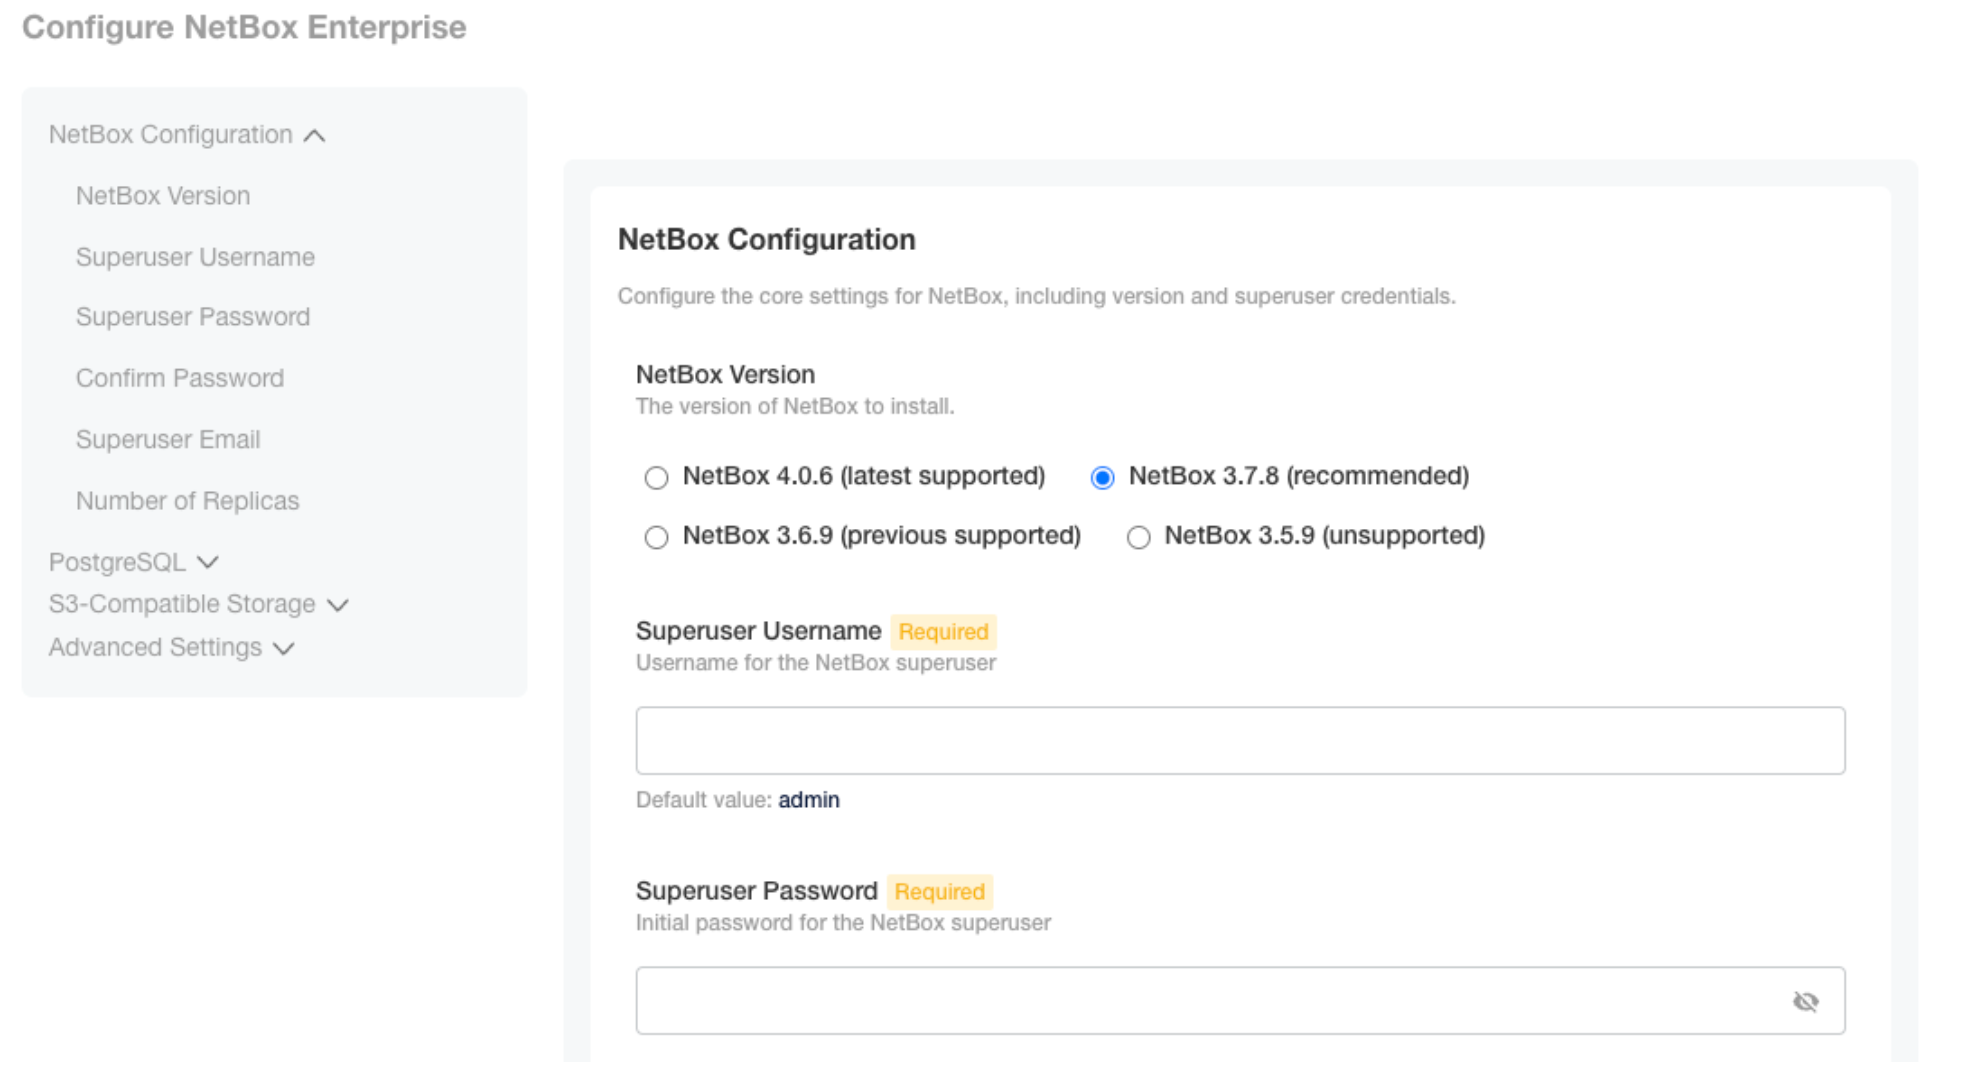
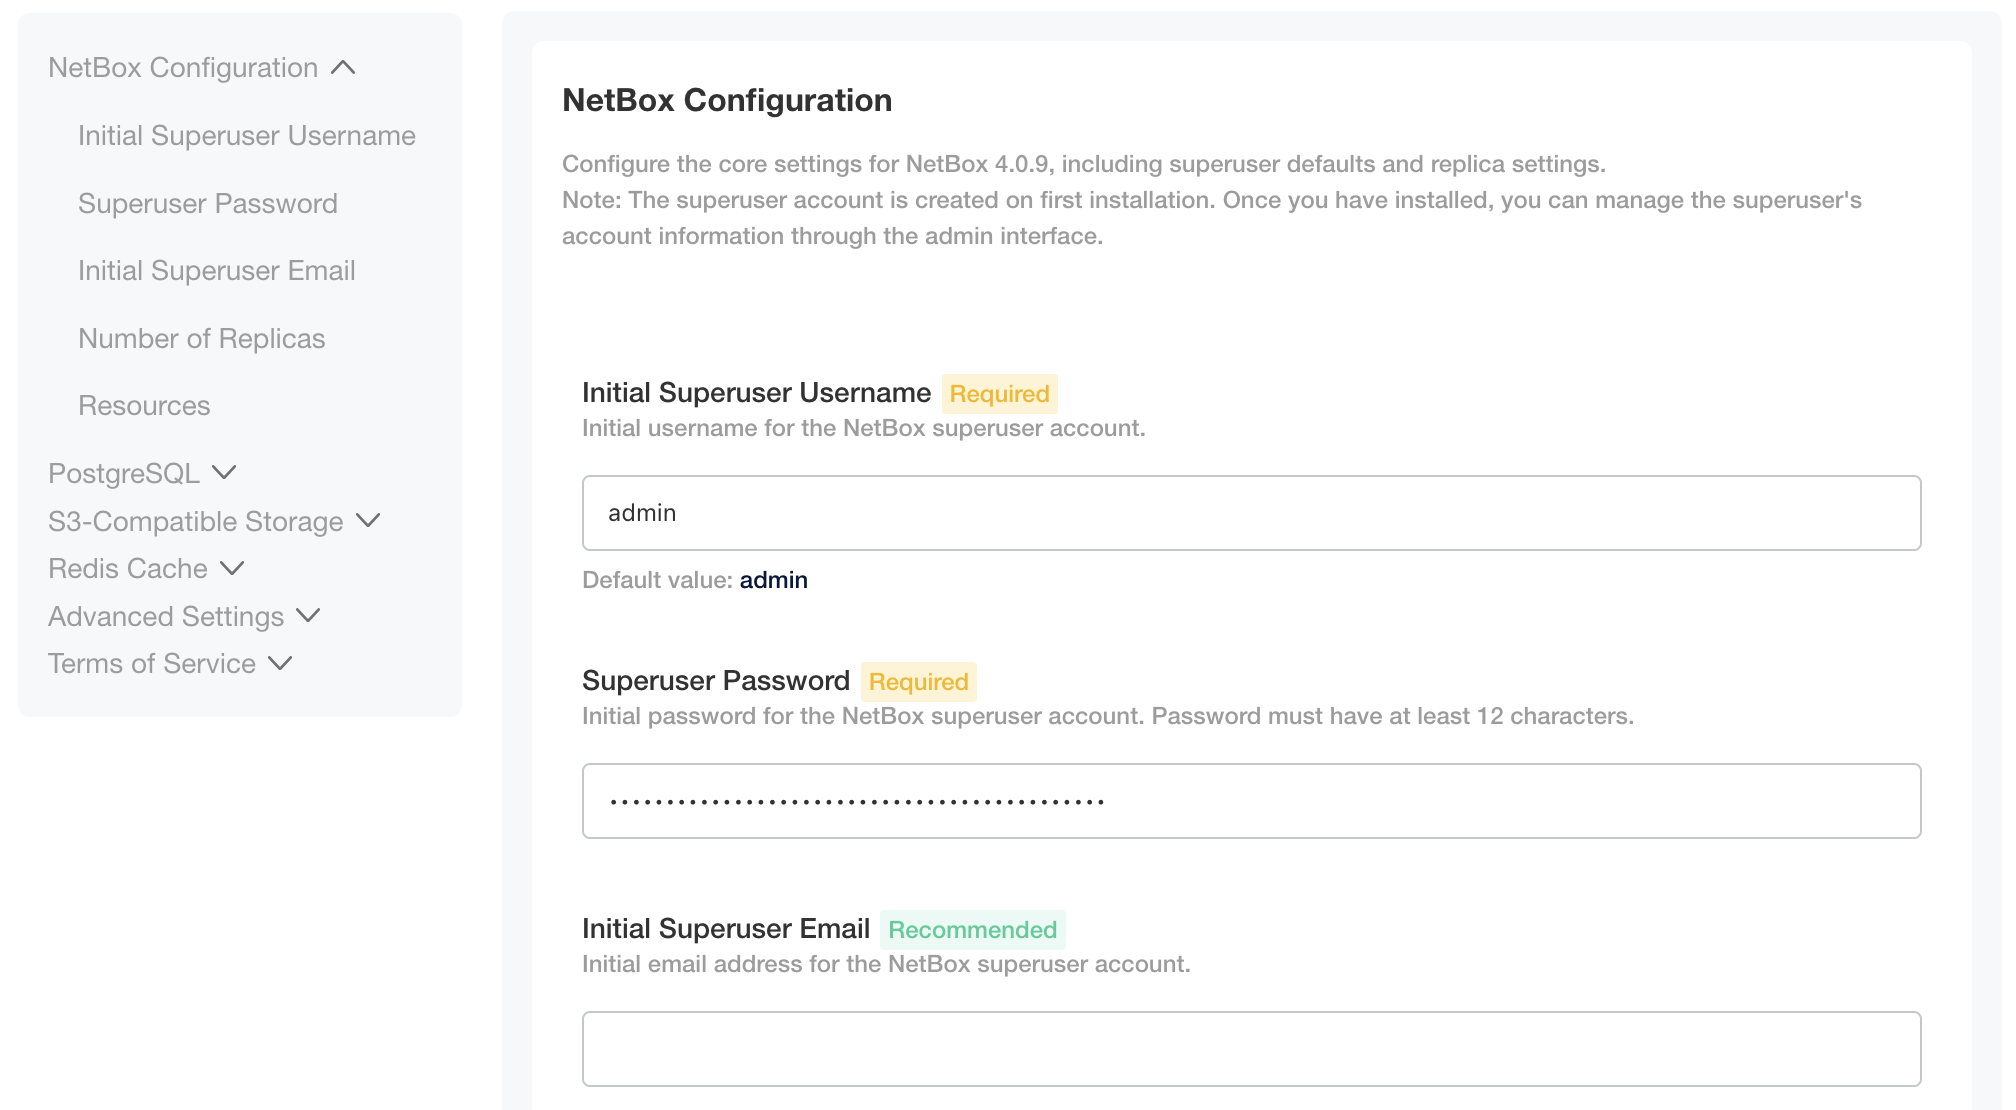
update wording and formatting, plus some screenshots to match current NBE

diff --git a/docs/netbox-enterprise/nbe-ec-installation.md b/docs/netbox-enterprise/nbe-ec-installation.md
@@ -24,46 +24,48 @@ The following steps are required for an Embedded Cluster (EC) installation of Ne
 
 ### Deploying NetBox
 
-Access the NetBox Enterprise admin console and configure NetBox
+Access the NetBox Enterprise admin console and configure NetBox.
 
 Open the provided URL in a browser. A prompt will require the password created in Step 2:
 
-![enterprise-admin-console](../images/netbox-enterprise/admin-console.png)
+![Admin Console](../images/netbox-enterprise/admin-console.png){ width="50%" }
 
 A wizard will guide the configuration of NetBox for the environment:
 
-![configure-netbox-enterprise](../images/netbox-enterprise/configure-netbox-enterprise.png)
+![NetBox Configuration](../images/netbox-enterprise/configure-netbox-enterprise.png)
 
-Required configuration information includes:
-
-- Version of NetBox to deploy:
-
-![netbox-enterprise-version](../images/netbox-enterprise/netbox-enterprise-version.png)
+Configuration information includes:
 
 - Built-in or external PostgreSQL:
-
-![netbox-enterprise-postgres](../images/netbox-enterprise/netbox-enterprise-postgres.png)
+  ![Built-in or external PostgreSQL](../images/netbox-enterprise/netbox-enterprise-postgres.png)
 
 - Built-in or external S3-Compatible object store:
+  ![Built-in or external S3](../images/netbox-enterprise/netbox-enterprise-s3.png)
 
-![netbox-enterpise-storage](../images/netbox-enterprise/netbox-enterprise-s3.png)
+- Built-in or external Redis object store:
+  ![Built-in or external Redis](../images/netbox-enterprise/netbox-enterprise-redis.png)
 
-- Advanced settings to configure plugins and SSO remote authentication:
+- Advanced settings to configure plugins and SSO remote authentication, and IPv4/IPv6 compatibility:
+  ![Advanced Settings](../images/netbox-enterprise/netbox-enterprise-advanced.png)
 
-![netbox-enterprise-overides](../images/netbox-enterprise/netbox-enterprise-overides.png)
+Finally, accept the terms of service by writing "ACCEPT" (case-insensitive) and you can proceed to the deployment.
 
-The deployment of NetBox Enterprise will then proceed:
+![Accept TOS](../images/netbox-enterprise/netbox-enterprise-accept-tos.png)
 
-![netbox-enterprise-deploy](../images/netbox-enterprise/netbox-enterprise-deploy.png)
+### Finish the Deployment
+
+Once you have accepted the terms of service and continued on to the main admin console, deployment will start.
+The first deployment will take some time, as it brings up all subsystems and runs migrations to initialize the database.
+
+![Deployment Started](../images/netbox-enterprise/netbox-enterprise-deploy.png)
 
 The `Unavailable` status will change to `Ready` once the deployment is complete and NetBox has fully initialized:
 
-![netbox-enterprise-ready](../images/netbox-enterprise/netbox-enterprise-ready.png)
+![Deployment Ready](../images/netbox-enterprise/netbox-enterprise-ready.png)
 
-### Verify
+### Verify the Deployment
 
-NetBox Enterprise should now be fully deployed.
+Once you see `Ready`, NetBox Enterprise is fully deployed, and available on ports `80` and `443`.
 
-![netbox-enterprise-login](../images/netbox-enterprise/netbox-enterprise-login.png)
-
-![netbox-enterprise-home](../images/netbox-enterprise/netbox-enterprise-app-home.png)
+- ![NetBox Enterprise Login](../images/netbox-enterprise/netbox-enterprise-login.png)
+- ![NetBox Enterprise Home](../images/netbox-enterprise/netbox-enterprise-app-home.png)
